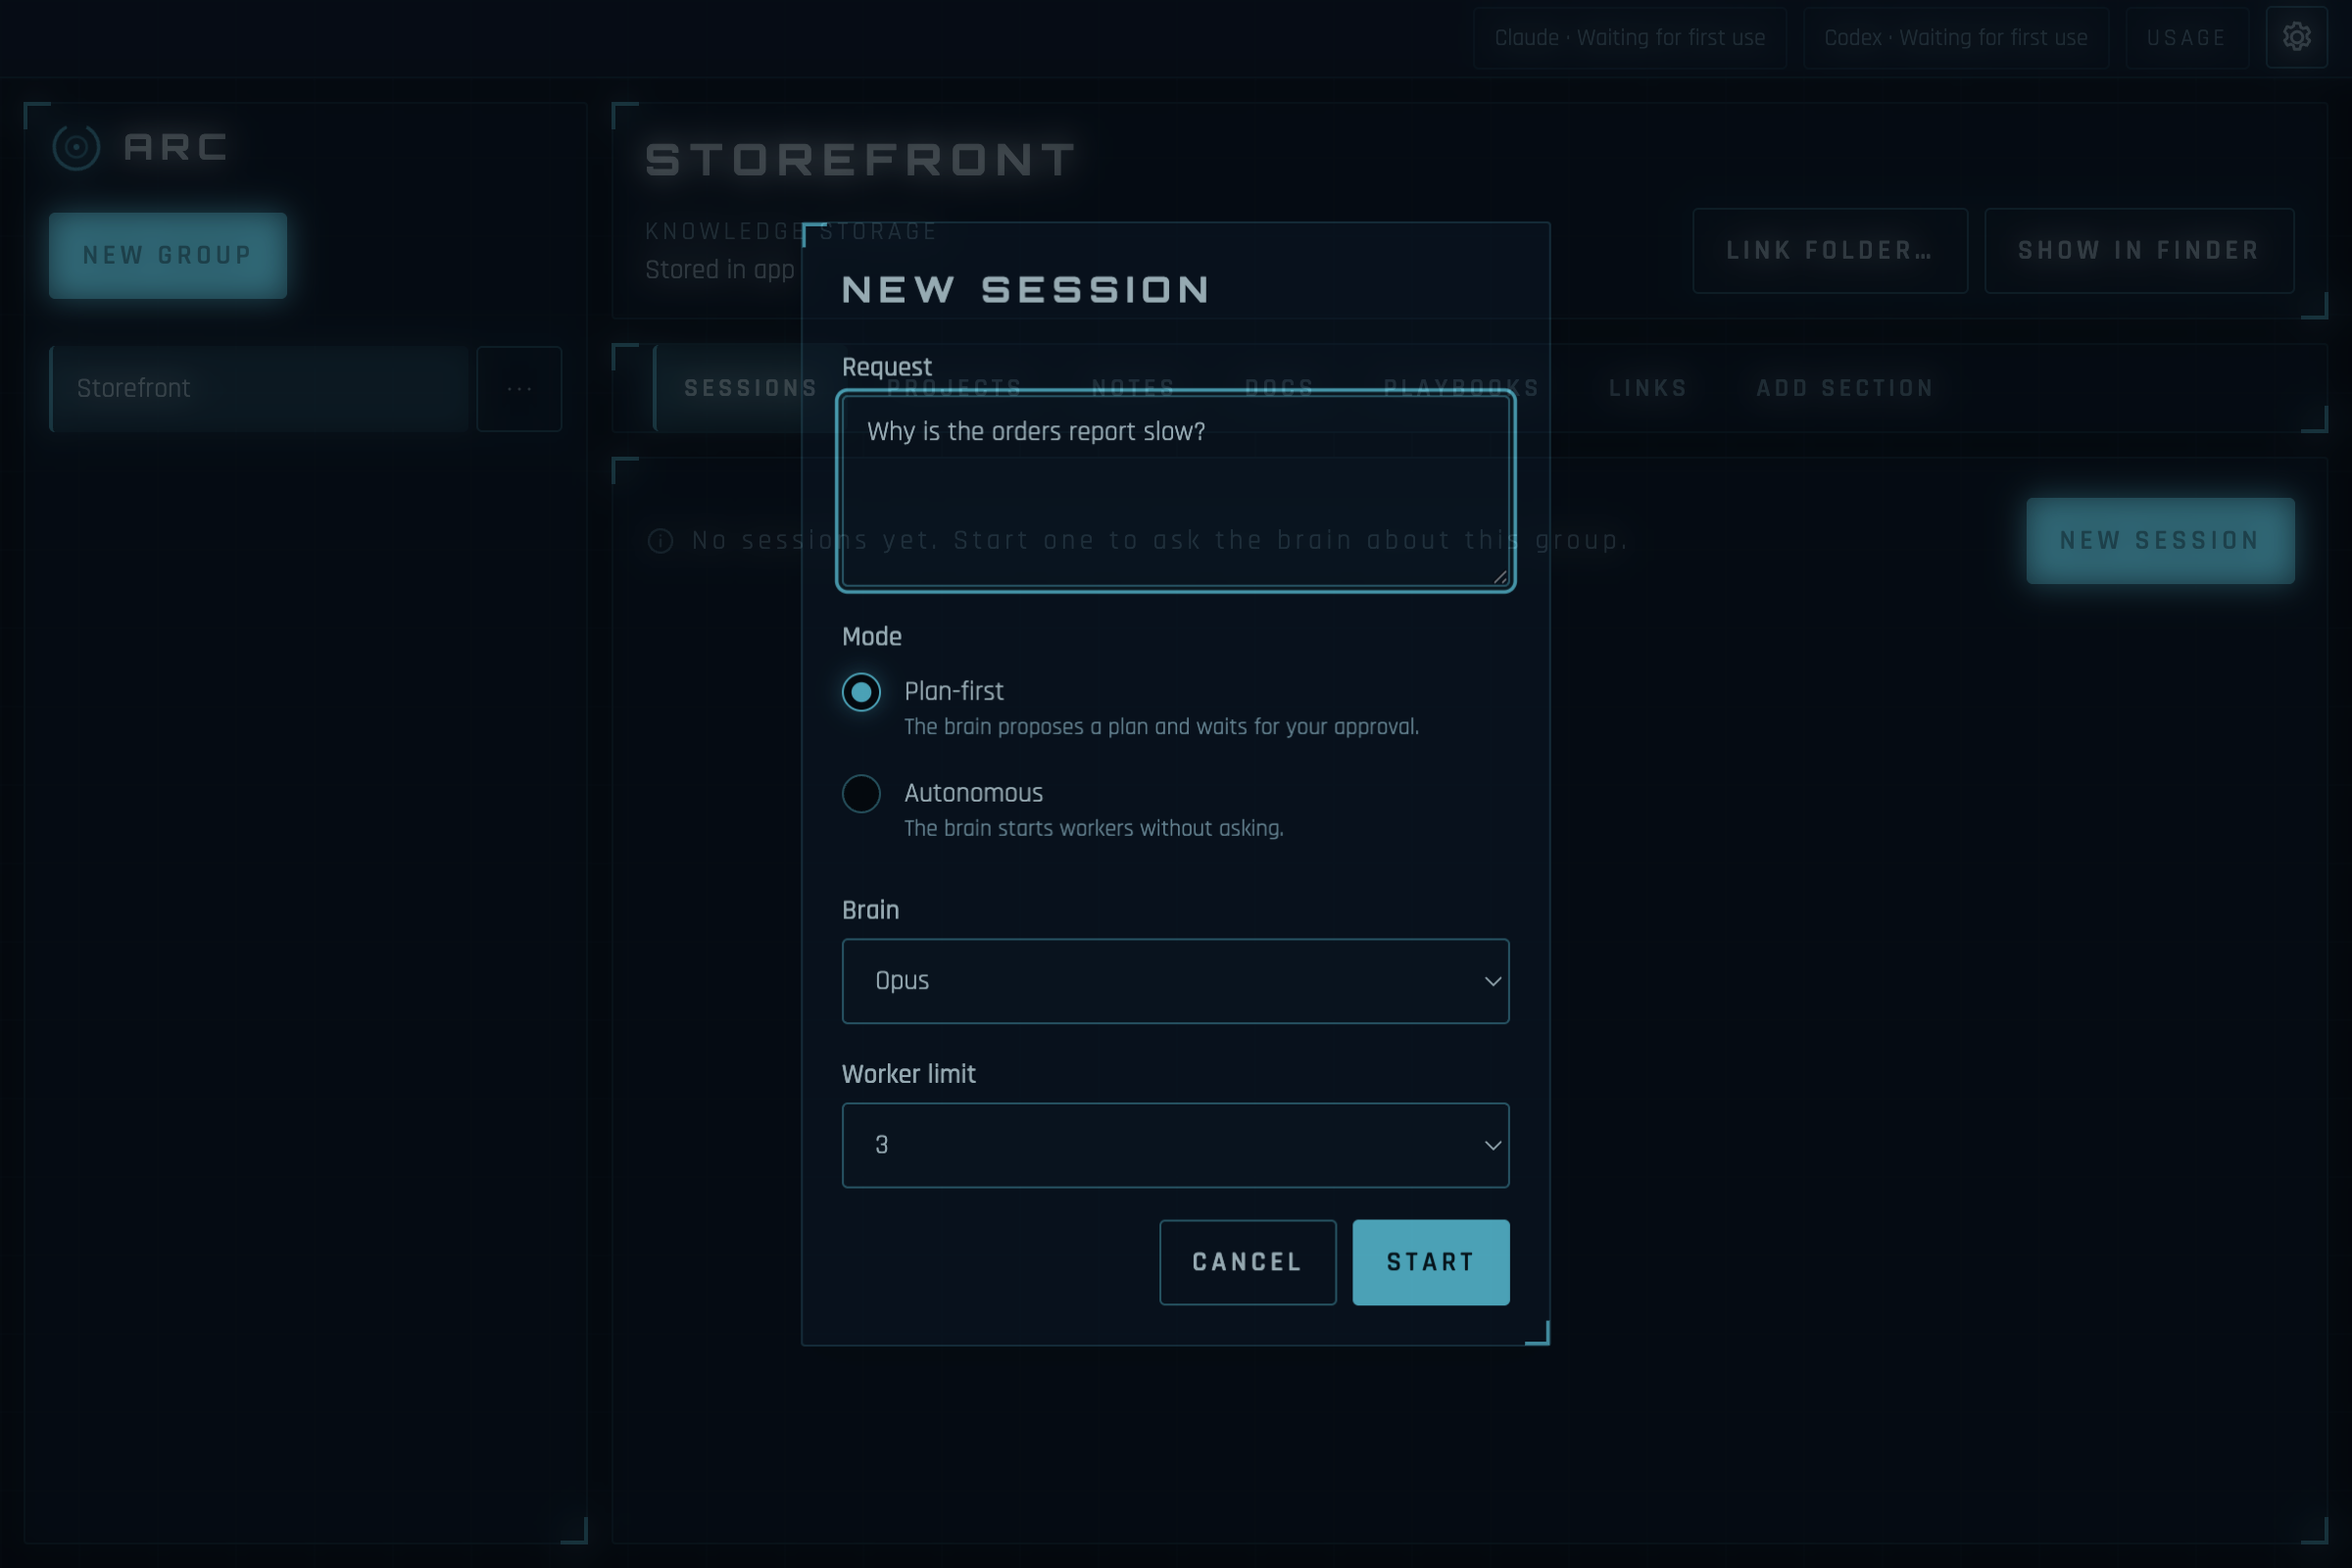
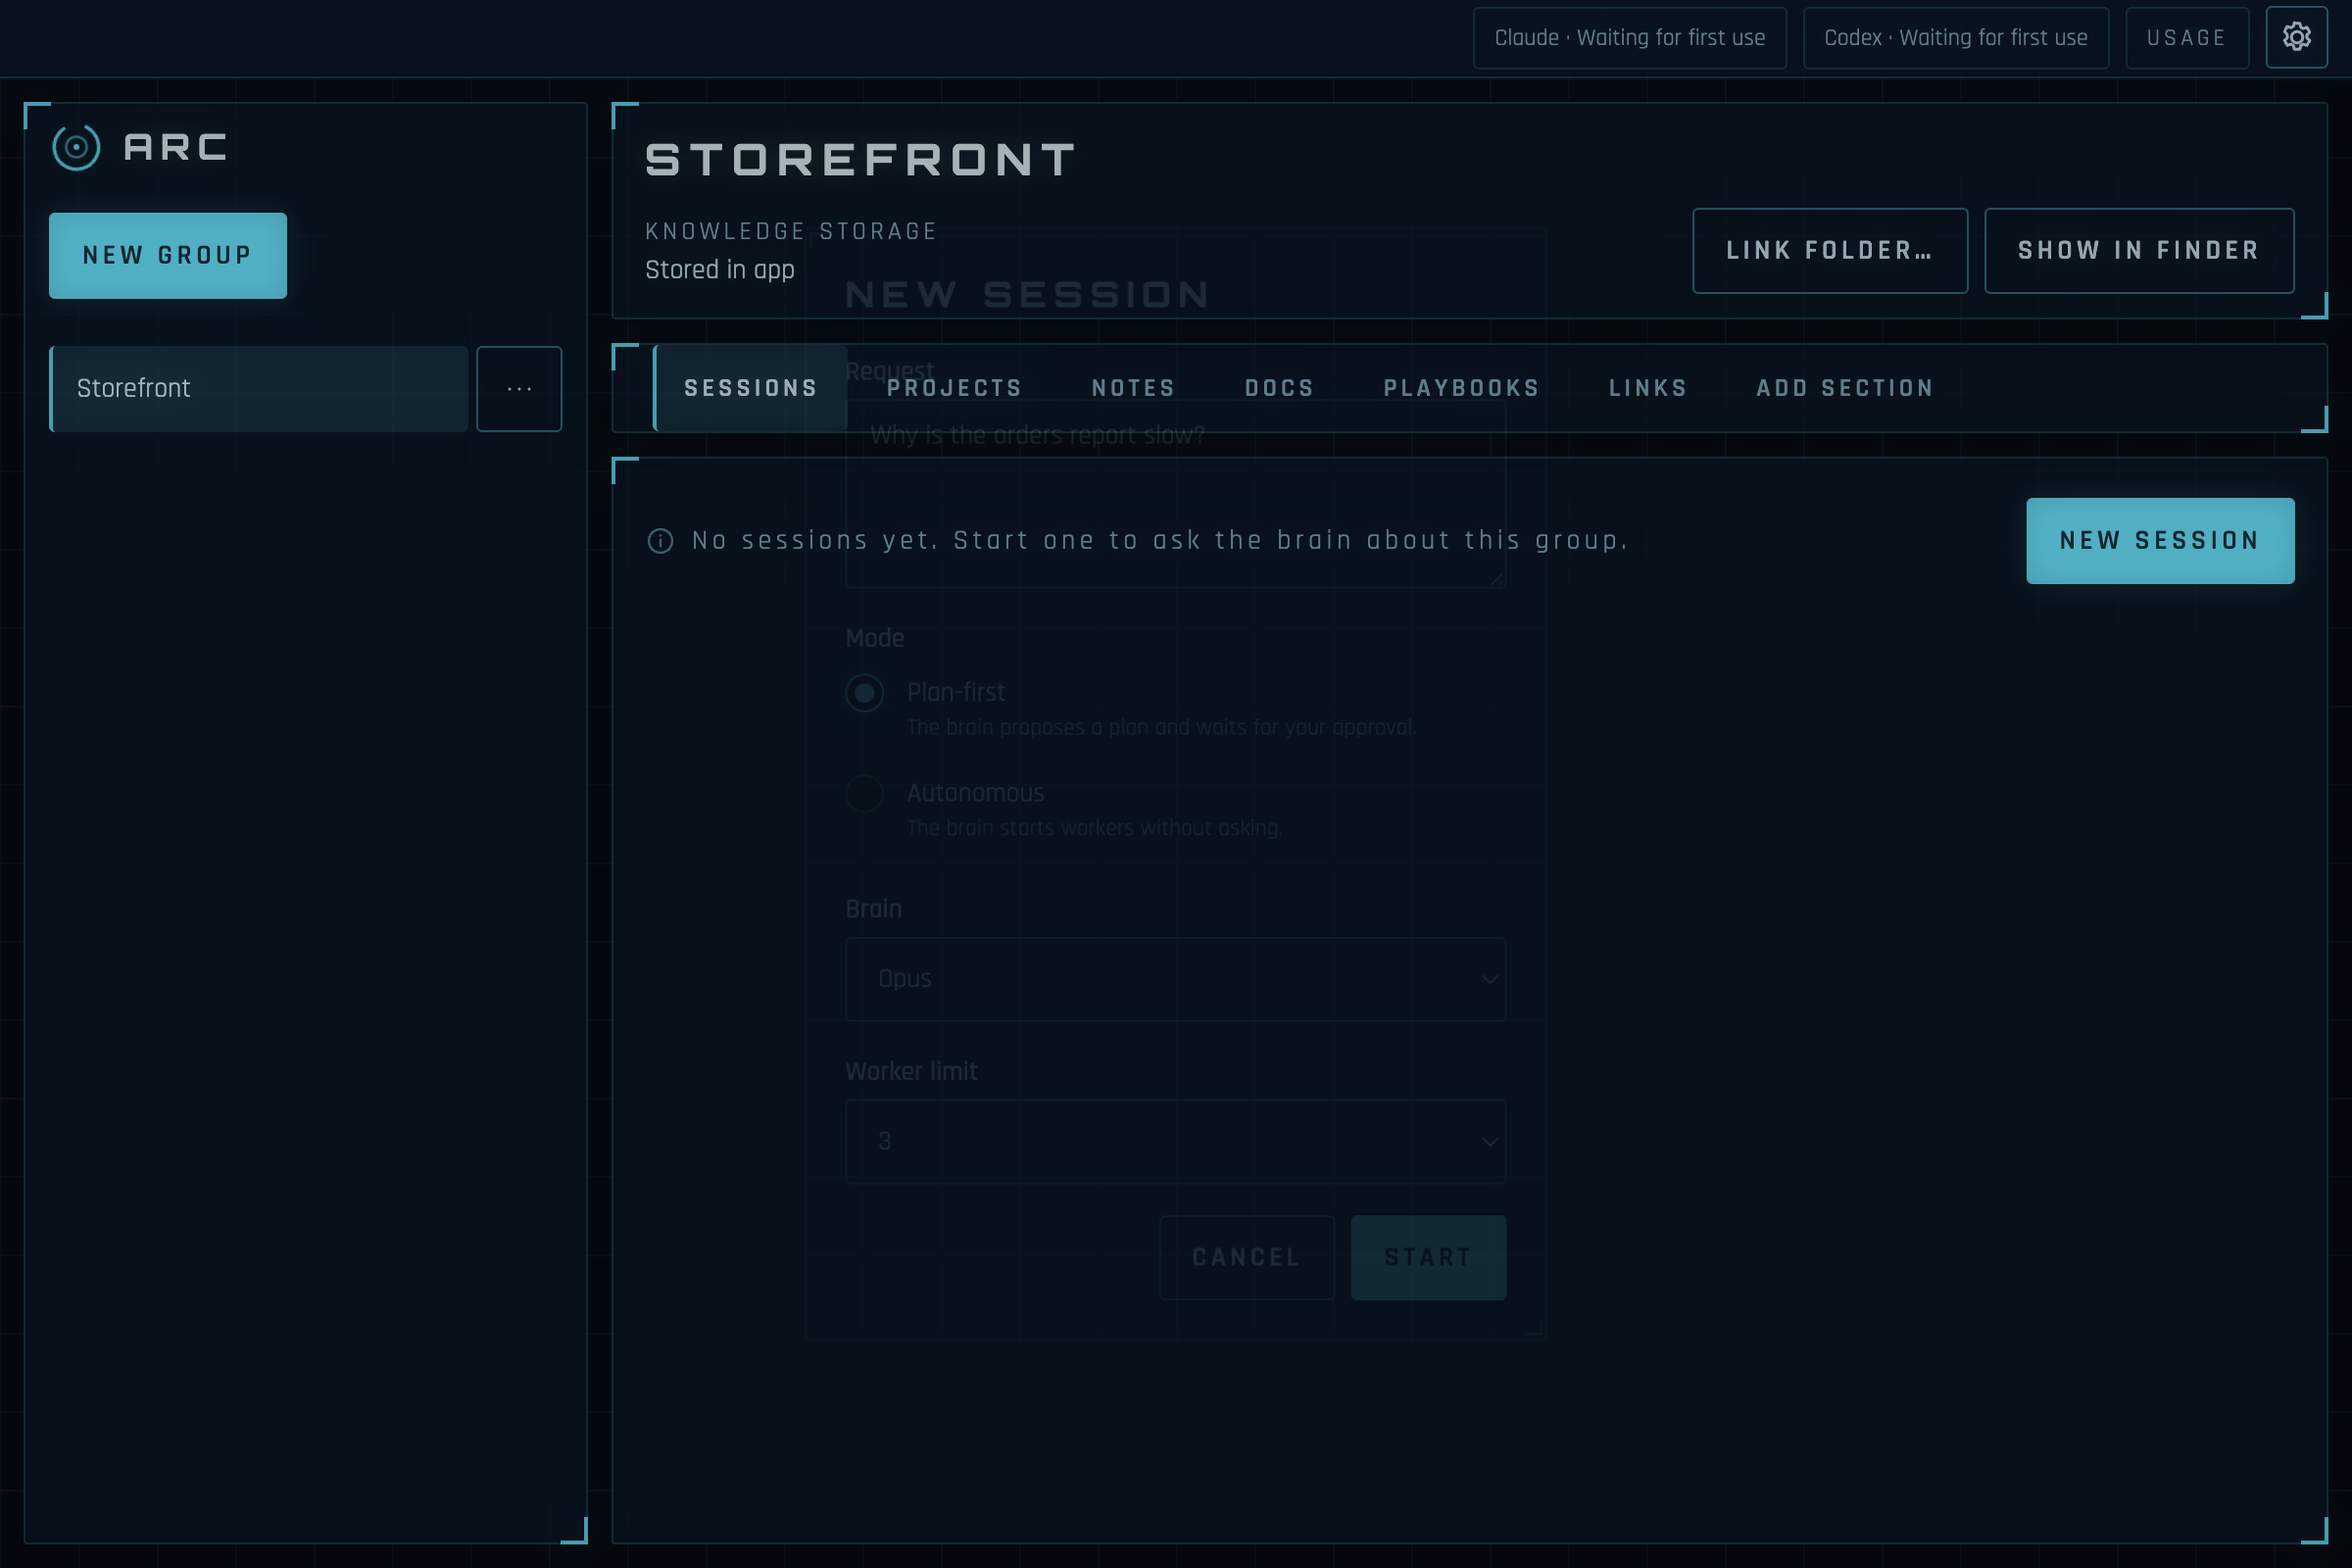
Move the Claude model aliases into models and the resolver-row predicate into the workers repo
models/ and sessions/ no longer import each other: the aliases, default
worker model and normalizeModel live in models/claude-aliases. usage and
review read isResolverRow from the workers repo instead of sessions.

diff --git a/src/main/sessions/worker-manager.ts b/src/main/sessions/worker-manager.ts
@@ -54,7 +54,12 @@ import type {
   SessionProjectsRepo
 } from '../db/repositories/session-projects-repo'
 import type { SessionsRepo } from '../db/repositories/sessions-repo'
-import type { WorkerRow, WorkersRepo } from '../db/repositories/workers-repo'
+import {
+  RESOLVER_MARKER,
+  isResolverRow,
+  type WorkerRow,
+  type WorkersRepo
+} from '../db/repositories/workers-repo'
 import { rootOf } from '../usage/read-paths'
 import { usageAgentKey } from '../usage/usage-recorder'
 import type { UsageRecorder, UsageRun, UsageTracker } from '../usage/usage-recorder'
@@ -69,7 +74,7 @@ import type { WorktreeGit } from '../git/worktrees'
 import { answerNote } from './attention-coordinator'
 import type { RateLimitGate } from './rate-limit-gate'
 import { classifyWorkerExit } from './worker-exit'
-import { RESOLVER_MARKER, commandName, isResolverRow, workerLabel as labelOf } from './worker-label'
+import { commandName, workerLabel as labelOf } from './worker-label'
 import type { ModelRegistry } from '../models/model-registry'
 import { reasonOf, resolveWorkerTarget, standInFor } from '../models/provider-resolution'
 import type { FallbackReason, WorkerTarget } from '../models/provider-resolution'

diff --git a/src/main/usage/usage-recorder.ts b/src/main/usage/usage-recorder.ts
@@ -3,14 +3,13 @@ import type { AgentSetupRepo } from '../db/repositories/agent-setup-repo'
 import type { GroupsRepo } from '../db/repositories/groups-repo'
 import type { SessionsRepo } from '../db/repositories/sessions-repo'
 import type { UsageRepo } from '../db/repositories/usage-repo'
-import type { WorkerRow, WorkersRepo } from '../db/repositories/workers-repo'
 import type { UsageSource } from '../db/schema'
 import { isProviderId } from '../../shared/provider-label'
 import { providerReportsTokens } from '../../shared/provider-traits'
 import type { ProviderId } from '../../shared/types/provider'
 import type { AgentUsage, SessionUsage, TokenTotals, UsagePanelRow } from '../../shared/types/usage'
 import { usageRecordingState } from '../db/repositories/usage-repo'
-import { isResolverRow } from '../sessions/worker-label'
+import { isResolverRow, type WorkerRow, type WorkersRepo } from '../db/repositories/workers-repo'
 import { normalizeReadPath } from './read-paths'
 import type { ReadContext } from './read-paths'
 import { bridgeToolDescriptions, estimateSetup } from './setup-estimator'

diff --git a/src/main/review/undo-service.ts b/src/main/review/undo-service.ts
@@ -3,7 +3,6 @@ import { isAbsolute, join, relative } from 'node:path'
 import { AppErrorException } from '../../shared/errors'
 import type { ReviewUndoPreview } from '../../shared/types/review'
 import type { ReviewMarksRepo } from '../db/repositories/review-marks-repo'
-import type { WorkersRepo } from '../db/repositories/workers-repo'
 import type { WorktreesRepo } from '../db/repositories/worktrees-repo'
 import { LONG_GIT_TIMEOUT_MS } from '../git/git'
 import type { GitRunner } from '../git/git'
@@ -15,7 +14,7 @@ import {
   freshMergeWorktree,
   mergeWorktreePath
 } from '../sessions/merge-worktree'
-import { isResolverRow } from '../sessions/worker-label'
+import { isResolverRow, type WorkersRepo } from '../db/repositories/workers-repo'
 import type { LocatedFile, ReviewService } from './review-service'
 
 /** Tries to publish the undo commit this many times when the branch keeps moving (same as a merge). */

diff --git a/src/main/sessions/merge-coordinator.ts b/src/main/sessions/merge-coordinator.ts
@@ -10,12 +10,12 @@ import type {
   SessionProjectRow,
   SessionProjectsRepo
 } from '../db/repositories/session-projects-repo'
-import type { WorkerRow, WorkersRepo } from '../db/repositories/workers-repo'
+import { isResolverRow, type WorkerRow, type WorkersRepo } from '../db/repositories/workers-repo'
 import type { WorkerWorktreeRow, WorktreesRepo } from '../db/repositories/worktrees-repo'
 import type { MergeGit, PublishOutcome, SessionTip } from '../git/merge'
 import type { MergeQueue } from '../git/merge-queue'
 import type { WorktreeGit } from '../git/worktrees'
-import { isResolverRow, workerLabel } from './worker-label'
+import { workerLabel } from './worker-label'
 import { dropMergeWorktree, freshMergeWorktree, mergeWorktreePath } from './merge-worktree'
 import { pruneEmptyFolders } from './working-copy'
 import type { ResolverRequest, ResolverRun } from './worker-manager'

diff --git a/src/main/sessions/worker-label.ts b/src/main/sessions/worker-label.ts
@@ -1,19 +1,4 @@
-import type { WorkerRow } from '../db/repositories/workers-repo'
-
-/**
- * A merge resolver is a worker row like any other (it needs an id for its tokens and questions), marked
- * by this entry in `depends_on_json`. The brain can never produce it: it is not a worker id.
- */
-export const RESOLVER_MARKER = 'arc:merge-resolver'
-
-export function isResolverRow(row: Pick<WorkerRow, 'dependsOnJson'>): boolean {
-  try {
-    const parsed: unknown = JSON.parse(row.dependsOnJson)
-    return Array.isArray(parsed) && parsed.includes(RESOLVER_MARKER)
-  } catch {
-    return false
-  }
-}
+import { isResolverRow, type WorkerRow } from '../db/repositories/workers-repo'
 
 /** What a worker is called in the event log and in attention requests. */
 export function workerLabel(

diff --git a/src/main/db/repositories/workers-repo.ts b/src/main/db/repositories/workers-repo.ts
@@ -6,6 +6,21 @@ import type { NewWorkerRow, UserControl, WorkerRow, WorkerStatus } from '../sche
 
 export type { NewWorkerRow, WorkerRow }
 
+/**
+ * A merge resolver is a worker row like any other (it needs an id for its tokens and questions), marked
+ * by this entry in `depends_on_json`. The brain can never produce it: it is not a worker id.
+ */
+export const RESOLVER_MARKER = 'arc:merge-resolver'
+
+export function isResolverRow(row: Pick<WorkerRow, 'dependsOnJson'>): boolean {
+  try {
+    const parsed: unknown = JSON.parse(row.dependsOnJson)
+    return Array.isArray(parsed) && parsed.includes(RESOLVER_MARKER)
+  } catch {
+    return false
+  }
+}
+
 const activeStatuses: WorkerStatus[] = ['starting', 'working', 'needs_approval', 'has_question']
 
 export class WorkersRepo {

diff --git a/src/main/models/model-registry.ts b/src/main/models/model-registry.ts
@@ -13,7 +13,7 @@ import type {
 } from '@shared/types/provider'
 import type { CodexModelInfo, CodexModelSource } from '../agents/codex/codex-probe'
 import type { CursorModelInfo, CursorModelSource } from '../agents/cursor/cursor-probe'
-import { MODEL_ALIASES, normalizeModel } from '../sessions/worker-model'
+import { MODEL_ALIASES, normalizeModel } from './claude-aliases'
 import { type ClaudeModelInfo, type ClaudeModelSource, claudeTier } from './claude-models'
 import { codexTier } from './codex-tiers'
 import { cursorTier } from './cursor-tiers'

diff --git a/src/main/review/attribution.ts b/src/main/review/attribution.ts
@@ -1,8 +1,7 @@
 import type { CommitsRepo } from '../db/repositories/commits-repo'
 import type { MergesRepo } from '../db/repositories/merges-repo'
-import type { WorkersRepo } from '../db/repositories/workers-repo'
 import type { GitRunner } from '../git/git'
-import { isResolverRow } from '../sessions/worker-label'
+import { isResolverRow, type WorkersRepo } from '../db/repositories/workers-repo'
 
 /** Label of the user's own changes (their commits and Arc's Undo commits). */
 export const USER_LABEL = 'You'

diff --git a/src/main/sessions/plan-coordinator.ts b/src/main/sessions/plan-coordinator.ts
@@ -6,7 +6,7 @@ import { BridgeToolError } from '../bridge/types'
 import type { PlanDecisionResult, ProposePlanInput } from '../bridge/types'
 import type { MessagesRepo } from '../db/repositories/messages-repo'
 import type { PlanRow, PlansRepo } from '../db/repositories/plans-repo'
-import { DEFAULT_WORKER_MODEL } from './worker-model'
+import { DEFAULT_WORKER_MODEL } from '../models/claude-aliases'
 import type { GatePlan } from './plan-gate'
 
 export type PlanDecision = 'approve' | 'ask-changes' | 'reject'

diff --git a/src/main/models/claude-models.ts b/src/main/models/claude-models.ts
@@ -1,7 +1,7 @@
 import { mkdir } from 'node:fs/promises'
 import type { ModelTier } from '@shared/types/provider'
 import type { CommandProbe, RawModel } from '../agents/command-probe'
-import { DEFAULT_WORKER_MODEL } from '../sessions/worker-model'
+import { DEFAULT_WORKER_MODEL } from './claude-aliases'
 
 /**
  * The Claude models come from the CLI's answer to `initialize` (the same no-model exchange the command

diff --git a/src/main/sessions/session-service.ts b/src/main/sessions/session-service.ts
@@ -82,7 +82,7 @@ import type { UsageRecorder } from '../usage/usage-recorder'
 import type { PlanUsageService } from '../usage/plan-usage-service'
 import type { TokenTotals } from '../../shared/types/usage'
 import type { WorkerManagerDeps } from './worker-manager'
-import { normalizeModel } from './worker-model'
+import { normalizeModel } from '../models/claude-aliases'
 import type {
   ModelRef,
   ProviderId,

diff --git a/tests/unit/sessions/worker-label.test.ts b/tests/unit/sessions/worker-label.test.ts
@@ -1,5 +1,6 @@
 import { describe, expect, it } from 'vitest'
-import { RESOLVER_MARKER, commandName, workerLabel } from '../../../src/main/sessions/worker-label'
+import { RESOLVER_MARKER } from '../../../src/main/db/repositories/workers-repo'
+import { commandName, workerLabel } from '../../../src/main/sessions/worker-label'
 
 const row = { number: 2, slug: 'api-retry', dependsOnJson: '[]' }
 
